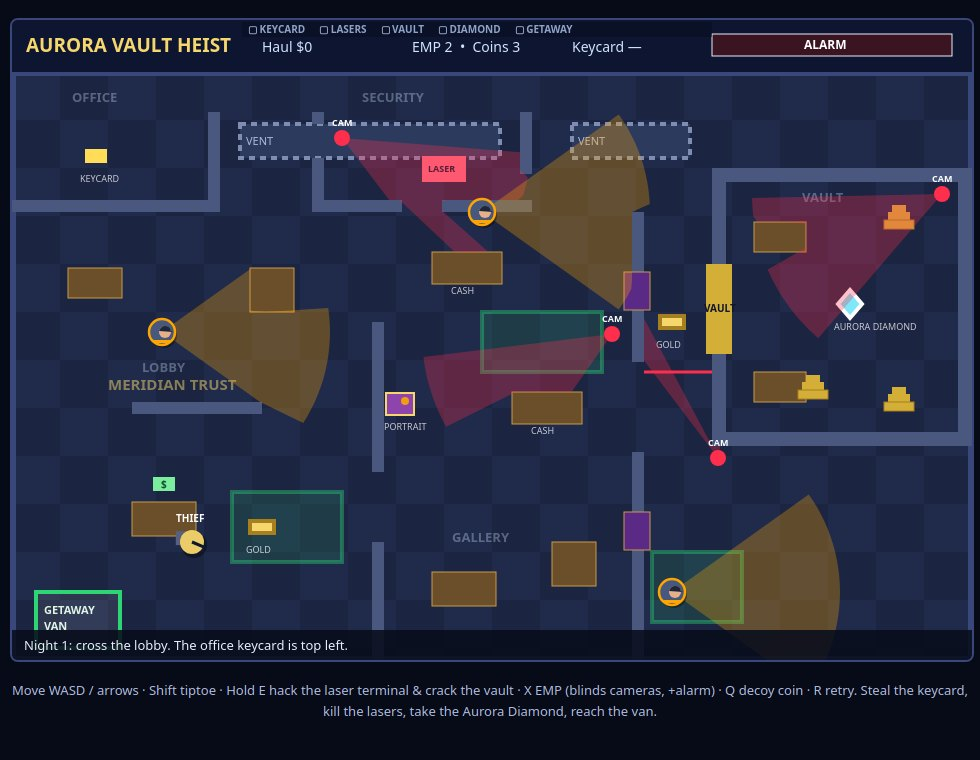
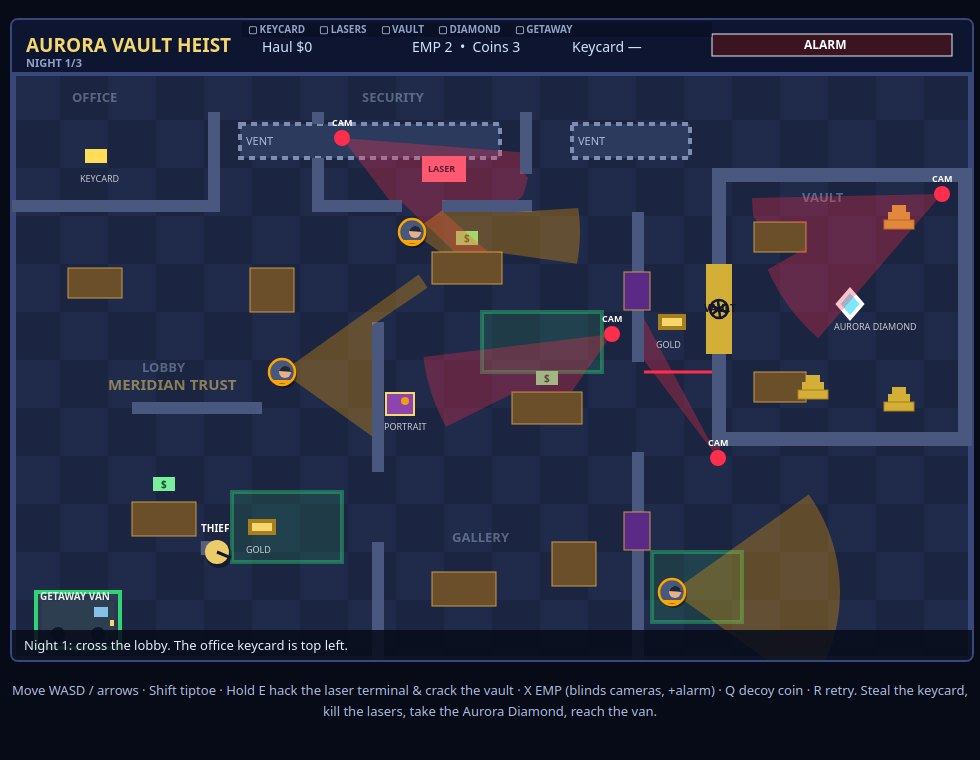
v2 fixes from review: unstuck patrol routes, reachable display cash, campaign completion, stationary LOS-checked work, wired diamond pedestal, van and vault wheel rendering

diff --git a/game/src/render.js b/game/src/render.js
@@ -3,7 +3,7 @@
 // amber guard cones, red camera cones, teal shadow you can hide in,
 // and a scarlet laser line you cross at your peril.
 
-import { VIEW_W, VIEW_H, HUD_H, ALARM_MAX } from './config.js';
+import { VIEW_W, VIEW_H, HUD_H, ALARM_MAX, HACK_SECONDS, VAULT_SECONDS, NIGHTS } from './config.js';
 import { TERMINAL, VAULT_DOOR, LASER_LINE, EXIT_PAD } from './levels.js';
 import { conePolygon } from './vision.js';
 
@@ -33,6 +33,9 @@ function drawHud(ctx, world) {
   ctx.fillStyle = '#f5d76e';
   ctx.font = 'bold 19px system-ui, sans-serif';
   ctx.fillText('AURORA VAULT HEIST', 14, 32);
+  ctx.fillStyle = '#8fa3c8';
+  ctx.font = 'bold 11px system-ui, sans-serif';
+  ctx.fillText(`NIGHT ${world.nightIndex + 1}/${NIGHTS.length}`, 14, 47);
   ctx.fillStyle = '#cfe3ff';
   ctx.font = '14px system-ui, sans-serif';
   ctx.fillText(`Haul $${world.haul.toLocaleString()}`, 250, 32);
@@ -129,10 +132,22 @@ function drawZones(ctx, world) {
   ctx.fillRect(EXIT_PAD.x, EXIT_PAD.y, EXIT_PAD.w, EXIT_PAD.h);
   ctx.strokeStyle = '#2ed573';
   ctx.strokeRect(EXIT_PAD.x, EXIT_PAD.y, EXIT_PAD.w, EXIT_PAD.h);
+  // The getaway van, side-on: body, cab, windshield and wheels, so
+  // the exit reads as a vehicle and not a labelled rectangle.
+  const vx = EXIT_PAD.x + 6;
+  const vy = EXIT_PAD.y + 10;
+  ctx.fillStyle = '#2c3e50';
+  ctx.fillRect(vx, vy, 72, 30);
+  ctx.fillStyle = '#85c1e9';
+  ctx.fillRect(vx + 52, vy + 5, 14, 10);
+  ctx.fillStyle = '#f5d76e';
+  ctx.fillRect(vx + 68, vy + 18, 4, 6);
+  ctx.fillStyle = '#10162e';
+  ctx.beginPath(); ctx.arc(vx + 16, vy + 32, 7, 0, Math.PI * 2); ctx.fill();
+  ctx.beginPath(); ctx.arc(vx + 56, vy + 32, 7, 0, Math.PI * 2); ctx.fill();
   ctx.fillStyle = '#dff5e6';
-  ctx.font = 'bold 11px system-ui, sans-serif';
-  ctx.fillText('GETAWAY', EXIT_PAD.x + 8, EXIT_PAD.y + 22);
-  ctx.fillText('VAN', EXIT_PAD.x + 8, EXIT_PAD.y + 38);
+  ctx.font = 'bold 10px system-ui, sans-serif';
+  ctx.fillText('GETAWAY VAN', EXIT_PAD.x + 4, EXIT_PAD.y + 8);
 }
 
 function drawFixtures(ctx, world) {
@@ -158,6 +173,20 @@ function drawFixtures(ctx, world) {
   ctx.fillStyle = '#10162e';
   ctx.font = 'bold 10px system-ui, sans-serif';
   ctx.fillText(world.vaultOpen ? 'OPEN' : 'VAULT', VAULT_DOOR.x - 2, VAULT_DOOR.y + 48);
+  // The vault wheel: spokes on the door face.
+  const wx = VAULT_DOOR.x + 13;
+  const wy = VAULT_DOOR.y + 45;
+  ctx.strokeStyle = '#10162e';
+  ctx.lineWidth = 2.5;
+  ctx.beginPath(); ctx.arc(wx, wy, 9, 0, Math.PI * 2); ctx.stroke();
+  for (let i = 0; i < 3; i++) {
+    const a = (Math.PI * i) / 3 + 0.4;
+    ctx.beginPath();
+    ctx.moveTo(wx - Math.cos(a) * 9, wy - Math.sin(a) * 9);
+    ctx.lineTo(wx + Math.cos(a) * 9, wy + Math.sin(a) * 9);
+    ctx.stroke();
+  }
+  ctx.lineWidth = 1;
   // Set dressing: framed art on the gallery wall, gold piles waiting
   // inside the vault, and the bank's name over the lobby counter.
   ctx.fillStyle = '#5b2a86';
@@ -344,8 +373,9 @@ function drawOverlays(ctx, world) {
   ctx.font = '13px system-ui, sans-serif';
   ctx.fillText(world.message, 12, VIEW_H - HUD_H - 10);
   if (world.workKind) {
+    const total = world.workKind === 'hack' ? HACK_SECONDS : VAULT_SECONDS;
     ctx.fillStyle = '#f5d76e';
-    ctx.fillRect(360, 250, 240 * Math.max(0, 1 - world.workLeft / 2.4), 10);
+    ctx.fillRect(360, 250, 240 * Math.max(0, 1 - world.workLeft / total), 10);
     ctx.strokeStyle = '#ffffff';
     ctx.strokeRect(360, 250, 240, 10);
   }

diff --git a/game/src/world.js b/game/src/world.js
@@ -145,7 +145,21 @@ export function updateWorld(world, input, dt) {
       item.taken = true;
       world.haul += item.value;
       if (item.kind === 'keycard') { world.hasKeycard = true; world.message = 'Keycard lifted. The vault door will open for you now.'; }
-      else if (item.kind === 'diamond') { world.hasDiamond = true; world.message = 'THE AURORA DIAMOND IS YOURS. Get to the van!'; }
+      else if (item.kind === 'diamond') {
+        world.hasDiamond = true;
+        // The pedestal was wired: lifting the diamond costs alarm and
+        // pulls the nearest guard to the vault door. The run back to
+        // the van is the loudest part of the job, by design.
+        world.alarm = Math.min(ALARM_MAX, world.alarm + 10);
+        let nearest = null;
+        let best = Infinity;
+        for (const g of world.guards) {
+          const d = Math.hypot(g.x - VAULT_DOOR.x, g.y - VAULT_DOOR.y);
+          if (d < best) { best = d; nearest = g; }
+        }
+        if (nearest) hearNoise(nearest, VAULT_DOOR.x - 40, VAULT_DOOR.y + 45);
+        world.message = 'THE DIAMOND IS YOURS - but the pedestal was wired (+10 alarm). RUN!';
+      }
       else world.message = `${item.label} bagged: $${item.value.toLocaleString()}`;
     }
   }
@@ -222,8 +236,14 @@ function startWork(world, kind, seconds) {
 function updateWork(world, input, dt) {
   const p = world.player;
   if (!input.interact()) { world.workKind = null; world.workLeft = 0; return; }
-  const nearTerminal = Math.abs(p.x - (TERMINAL.x + 22)) < 52 && Math.abs(p.y - (TERMINAL.y + 44)) < 52;
-  const nearVault = Math.abs(p.x - (VAULT_DOOR.x - 18)) < 44 && Math.abs(p.y - (VAULT_DOOR.y + 45)) < 70;
+  // Work means standing still at the fixture, in the open: moving off
+  // cancels the job, and no hacking through a wall.
+  const mv = input.moveVector();
+  if (mv.x !== 0 || mv.y !== 0) { world.workKind = null; world.workLeft = 0; return; }
+  const nearTerminal = Math.abs(p.x - (TERMINAL.x + 22)) < 52 && Math.abs(p.y - (TERMINAL.y + 44)) < 52 &&
+    hasLineOfSight(p.x, p.y, TERMINAL.x + 22, TERMINAL.y + 13, world.blockers);
+  const nearVault = Math.abs(p.x - (VAULT_DOOR.x - 18)) < 44 && Math.abs(p.y - (VAULT_DOOR.y + 45)) < 70 &&
+    hasLineOfSight(p.x, p.y, VAULT_DOOR.x, VAULT_DOOR.y + 45, world.blockers);
   if (nearTerminal && !world.lasersOff) {
     startWork(world, 'hack', HACK_SECONDS);
     world.workLeft -= dt;

diff --git a/game/src/levels.js b/game/src/levels.js
@@ -57,13 +57,16 @@ export function buildFloor() {
 }
 
 export function buildActors(nightIndex) {
+  // Patrol rectangles are traced against the furniture: every leg
+  // runs in open floor, because a guard's steering only slides along
+  // walls - a waypoint line through a desk or counter strands him.
   const guards = [
-    { waypoints: [[150, 260], [300, 260], [300, 520], [150, 520]], phase: 0 },
-    { waypoints: [[470, 140], [580, 140], [580, 420], [470, 420]], phase: 2 },
+    { waypoints: [[270, 300], [340, 300], [340, 540], [270, 540]], phase: 0 },
+    { waypoints: [[400, 160], [585, 160], [585, 425], [400, 425]], phase: 2 },
     { waypoints: [[660, 520], [880, 520], [880, 420], [660, 420]], phase: 4 },
   ];
   if (nightIndex >= 2) {
-    guards.push({ waypoints: [[250, 90], [560, 90], [560, 200], [250, 200]], phase: 1 });
+    guards.push({ waypoints: [[90, 560], [330, 560], [330, 380], [90, 380]], phase: 1 });
   }
   const cameras = [
     { x: 330, y: 66, base: 0.5, sweep: 0.9, phase: 0 },
@@ -77,8 +80,8 @@ export function buildActors(nightIndex) {
 export function buildLoot(nightIndex) {
   const loot = [
     { id: 'keycard', kind: 'keycard', x: 84, y: 84, value: 0, label: 'KEYCARD' },
-    { id: 'cash1', kind: 'cash', x: 455, y: 196, value: 4000, label: 'CASH' },
-    { id: 'cash2', kind: 'cash', x: 535, y: 336, value: 4000, label: 'CASH' },
+    { id: 'cash1', kind: 'cash', x: 455, y: 166, value: 4000, label: 'CASH' },
+    { id: 'cash2', kind: 'cash', x: 535, y: 306, value: 4000, label: 'CASH' },
     { id: 'gold1', kind: 'gold', x: 660, y: 250, value: 9000, label: 'GOLD' },
     { id: 'gold2', kind: 'gold', x: 250, y: 455, value: 9000, label: 'GOLD' },
     { id: 'diamond', kind: 'diamond', x: 838, y: 232, value: 50000, label: 'AURORA DIAMOND' },

diff --git a/game/src/main.js b/game/src/main.js
@@ -36,13 +36,24 @@ function frame(now) {
     if (before === 'playing' && world.state === 'busted' && !endPlayed) { sfx.busted(); endPlayed = true; }
     if (before === 'playing' && world.state === 'clear' && !endPlayed) { sfx.clear(); endPlayed = true; }
     if ((world.state === 'busted' || world.state === 'clear') && input.takePressed('KeyR')) {
-      if (world.state === 'clear') {
+      if (world.state === 'clear' && night === NIGHTS.length - 1) {
+        // Campaign complete: bank the third night, report the total,
+        // and start a fresh campaign instead of looping Night 3.
         totalHaul += world.haul;
-        night = Math.min(NIGHTS.length - 1, night + 1);
-      }
-      world = createWorld(night);
-      if (night === NIGHTS.length - 1 && totalHaul > 0) {
-        world.message = `${NIGHTS[night].name}. Banked so far: $${totalHaul.toLocaleString()}`;
+        const campaignTotal = totalHaul;
+        totalHaul = 0;
+        night = 0;
+        world = createWorld(0);
+        world.message = `CAMPAIGN COMPLETE - three nights banked: $${campaignTotal.toLocaleString()}. Night 1 again: beat that total.`;
+      } else {
+        if (world.state === 'clear') {
+          totalHaul += world.haul;
+          night += 1;
+        }
+        world = createWorld(night);
+        if (night > 0 && totalHaul > 0) {
+          world.message = `${NIGHTS[night].name}. Banked so far: $${totalHaul.toLocaleString()}`;
+        }
       }
       endPlayed = false;
     }

diff --git a/game/src/shots.js b/game/src/shots.js
@@ -9,7 +9,7 @@ import { createWorld } from './world.js';
 export function shotWorld(name) {
   const world = createWorld(0);
   if (name === 'start') {
-    world.player.x = 180; world.player.y = 470; world.player.facing = 0.4;
+    world.player.x = 205; world.player.y = 480; world.player.facing = 0.4;
     world.message = 'Night 1: cross the lobby. The office keycard is top left.';
     return world;
   }
@@ -40,7 +40,7 @@ export function shotWorld(name) {
     world.lockdown = true;
     world.seenNow = true;
     world.guards[2].state = 'chase';
-    world.guards[2].x = 700; world.guards[2].y = 360;
+    world.guards[2].x = 688; world.guards[2].y = 348;
     world.message = 'SEEN at the laser line! Break line of sight or the meter fills.';
     return world;
   }

diff --git a/README.md b/README.md
@@ -4,7 +4,7 @@
 [![rank](https://make.fun/badge/best-heist-game-20261122-0559/hmnk0311/aurora-vault-heist/rank.svg)](https://make.fun/bounty/best-heist-game-20261122-0559/leaderboard?utm_source=github&utm_medium=readme&utm_campaign=best-heist-game-20261122-0559)
 [![reward](https://make.fun/badge/best-heist-game-20261122-0559/hmnk0311/aurora-vault-heist/reward.svg)](https://make.fun/bounty/best-heist-game-20261122-0559?utm_source=github&utm_medium=readme&utm_campaign=best-heist-game-20261122-0559)
 
-Aurora Vault Heist is an original top-down heist game played in a desktop browser. One thief crosses the Meridian Trust bank floor on three nights: slip past patrol guards with vision cones and sweeping security cameras, lift the keycard from the office, hack the laser terminal in the security room (or crawl the vent duct), crack the vault door, steal the Aurora Diamond and reach the getaway van before the alarm meter fills. Tools cost you: an EMP blinds the cameras but surges the alarm, and a decoy coin pulls a guard off his patrol. Shadow carpets and tiptoeing slow how fast you are spotted, several routes cross every room, and a quiet escape pays a ghost bonus.
+Aurora Vault Heist is an original top-down heist game played in a desktop browser. One thief crosses the Meridian Trust bank floor on three nights: slip past patrol guards with vision cones and sweeping security cameras, lift the keycard from the office, hack the laser terminal in the security room (or crawl the vent duct), crack the vault door, steal the Aurora Diamond and reach the getaway van before the alarm meter fills. Tools cost you: an EMP blinds the cameras but surges the alarm, and a decoy coin pulls a guard off his patrol. Shadow carpets and tiptoeing slow how fast you are spotted, several routes cross every room, and a quiet escape pays a ghost bonus. Push the alarm past halfway and the bank goes on lockdown watch - every patrol steps up a gear - and the diamond's pedestal is wired, so lifting it costs alarm and pulls a guard toward the vault door: the run back to the van is the loudest part of the job. Optional loot (a gallery portrait, the lobby register, cash and gold) rewards the greedy, the HUD tracks the five steps of the job, and clearing all three nights completes the campaign with a banked total.
 
 ## Run it
 
